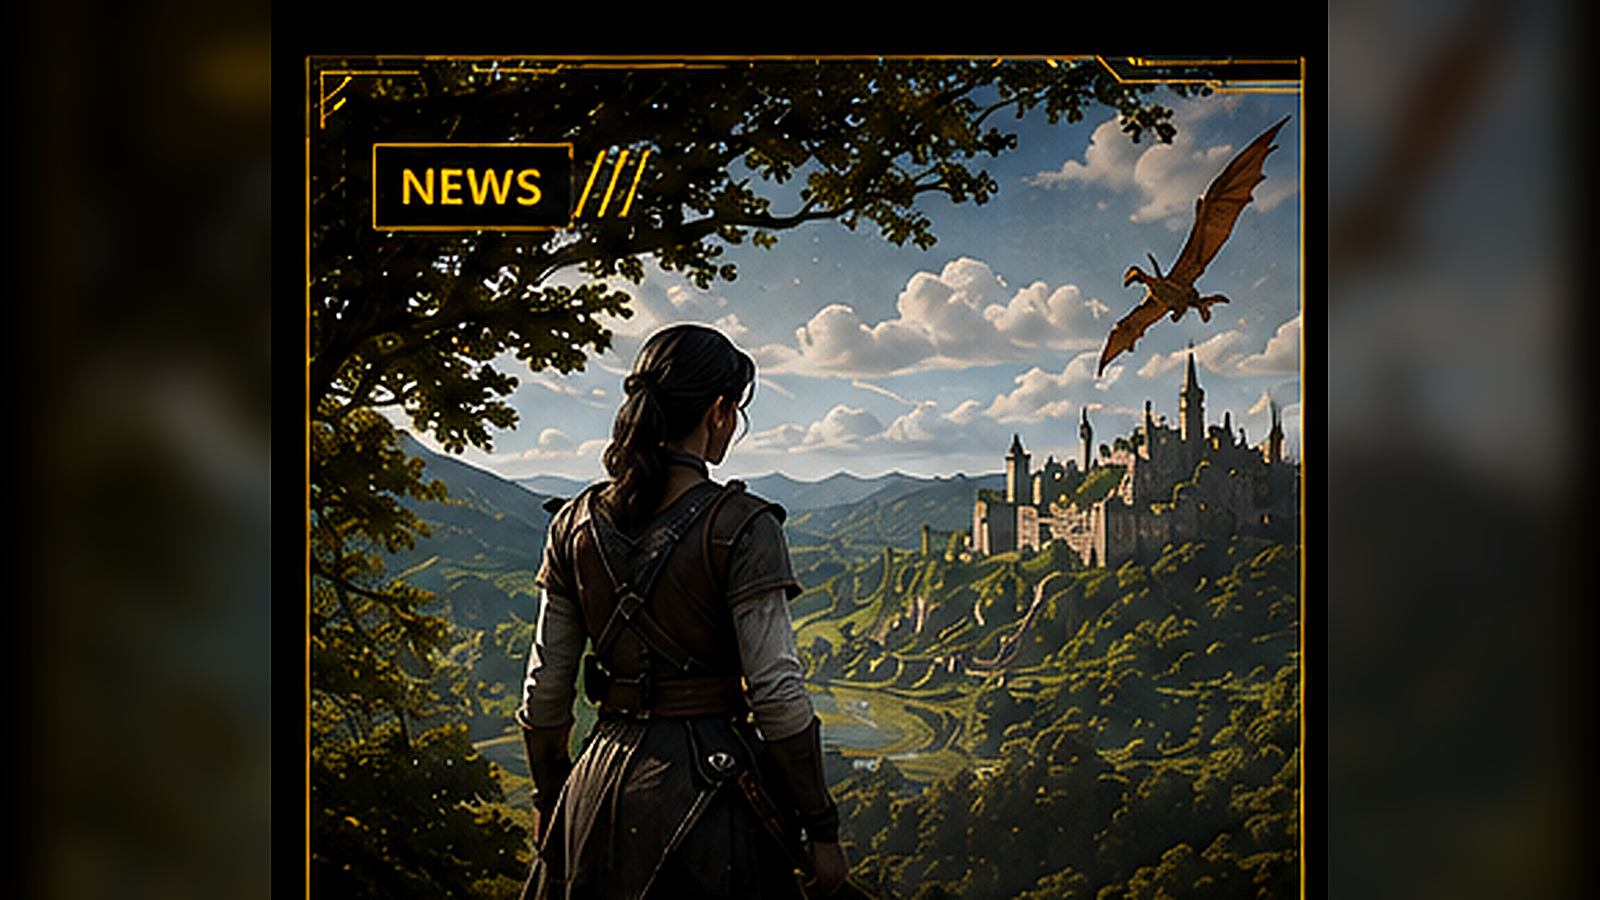
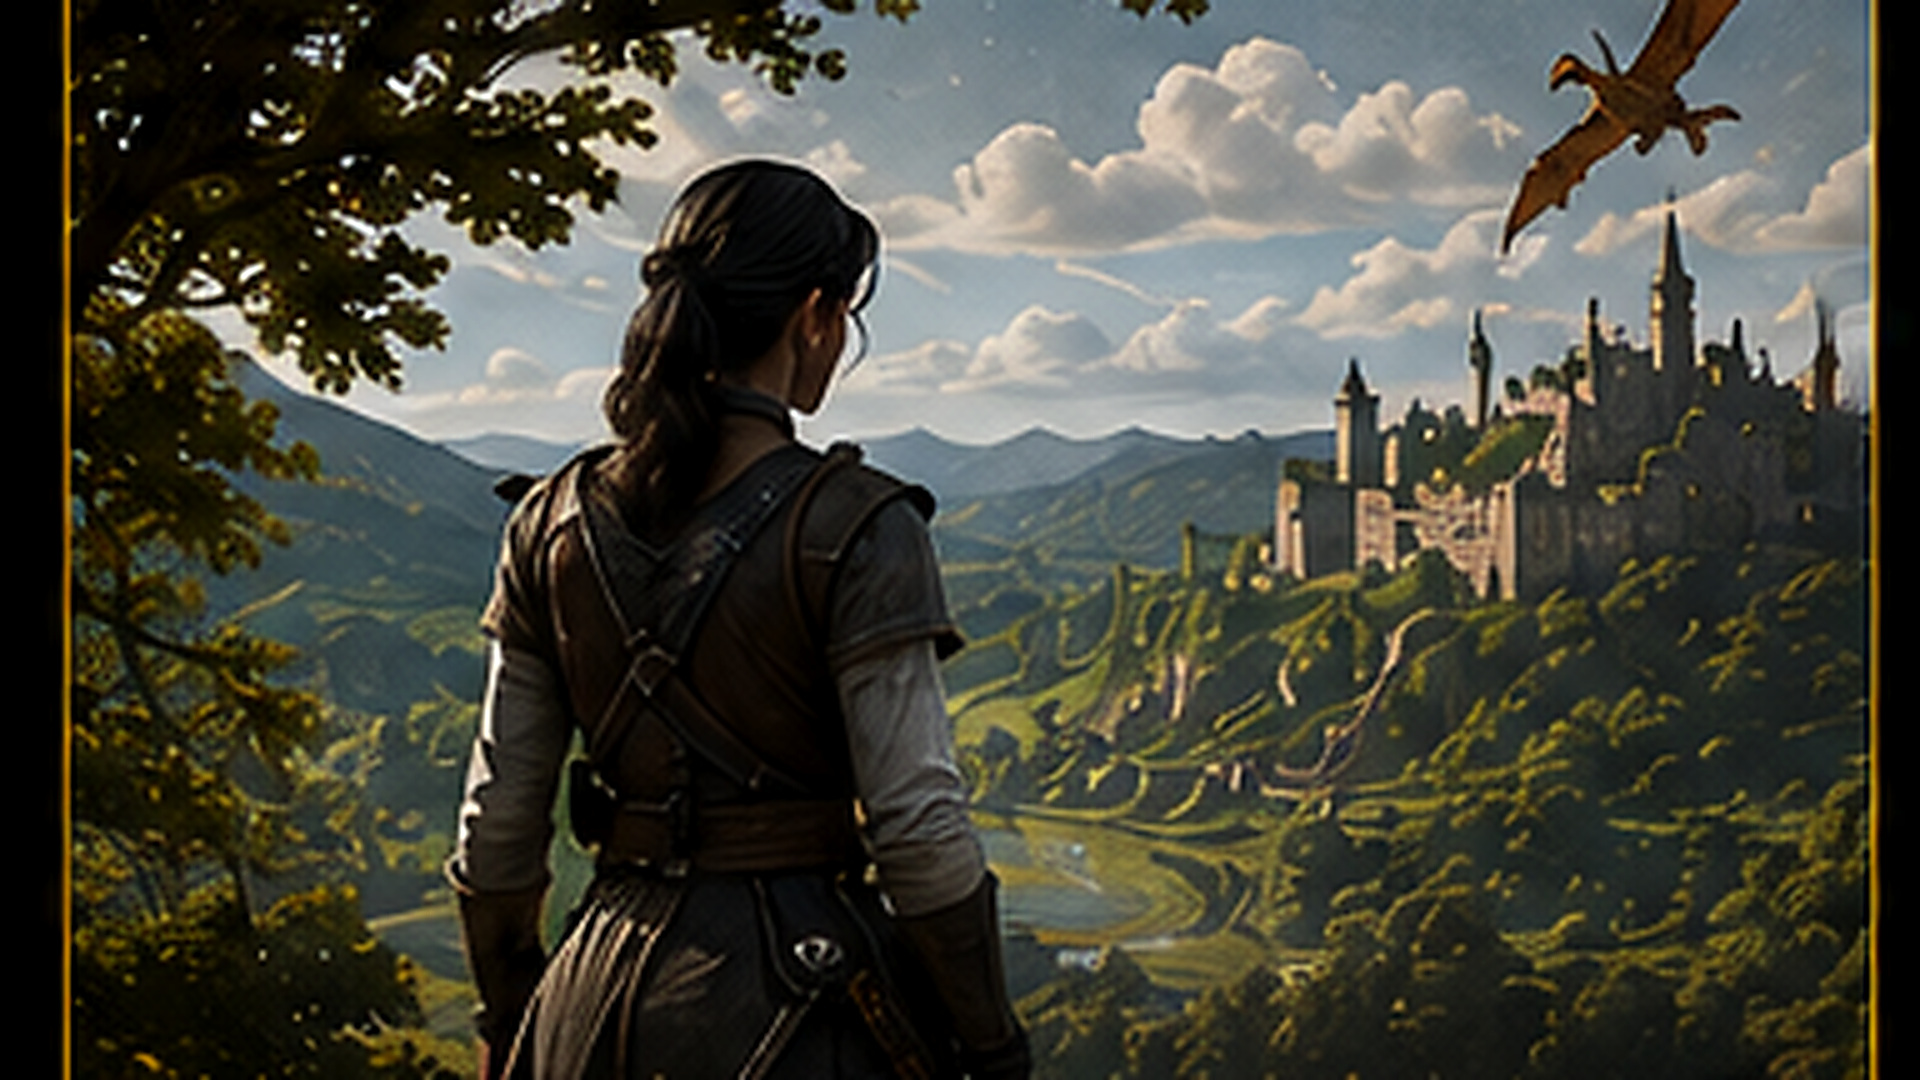
nzr-gg-site-v1.5

diff --git a/styles.css b/styles.css
@@ -789,3 +789,50 @@ body{overflow-x:hidden}
 @media(max-width:680px){
   .article-heading{padding-top:28px}.article-heading h1{font-size:38px;letter-spacing:-1.4px}.article-lead{font-size:16px}.article-cover-frame{aspect-ratio:4/3;margin-bottom:32px}.article-cover{object-position:center}.article-body{font-size:17px;line-height:1.72}.article-body blockquote{font-size:18px}.article-meta-row{align-items:flex-start;flex-direction:column;gap:10px}
 }
+
+/* ===== NZR.GG v1.5 — CLEAN COVERS + REAL THEME TOGGLE ===== */
+/* Story cards no longer duplicate category labels on top of the artwork. */
+.story-copy .kicker{display:none!important}
+.story-copy{bottom:18px}
+
+/* Clean 16:9 art is the single image source across cards and articles. */
+.story-art,.news-card .thumb,.media-card-image,.related-img{background-size:cover!important;background-position:center!important}
+.article-cover{object-position:center!important}
+
+/* Light theme: switch the whole surface system, not only the header. */
+:root[data-theme="light"] .status-strip,
+:root[data-theme="light"] .hero-main,
+:root[data-theme="light"] .stream-card,
+:root[data-theme="light"] .event-row,
+:root[data-theme="light"] .latest-list li,
+:root[data-theme="light"] .article-heading,
+:root[data-theme="light"] .article-layout,
+:root[data-theme="light"] .article-layout-v14,
+:root[data-theme="light"] .site-footer{color:#1b1b1b}
+:root[data-theme="light"] .hero-main{background:#f7f4ee}
+:root[data-theme="light"] .hero-overlay{background:linear-gradient(90deg,rgba(247,244,238,.04),rgba(247,244,238,.62) 52%,rgba(247,244,238,.96))}
+:root[data-theme="light"] .story-shade{background:linear-gradient(0deg,rgba(250,248,243,.94),rgba(250,248,243,.04) 72%)}
+:root[data-theme="light"] .story-copy h3{color:#171717;text-shadow:0 1px 0 rgba(255,255,255,.55)}
+:root[data-theme="light"] .hero-content h1{color:#171717}
+:root[data-theme="light"] .hero-content p{color:#514e49}
+:root[data-theme="light"] .eyebrow,:root[data-theme="light"] .hero-note,:root[data-theme="light"] .meta{color:#6a655e}
+:root[data-theme="light"] .status-strip{border-color:#d8c8aa;color:#77716a}
+:root[data-theme="light"] .status-strip b{color:#b27600}
+:root[data-theme="light"] .stream-card,:root[data-theme="light"] .event-row{border-color:#d4cec4;background:#faf8f3}
+:root[data-theme="light"] .latest-list li{border-color:#d4cec4}
+:root[data-theme="light"] .site-footer{border-color:#d4cec4}
+:root[data-theme="light"] .site-footer a{color:#4f4b45}
+:root[data-theme="light"] .brand-copy small,:root[data-theme="light"] .footer-brand small{color:#68635d}
+:root[data-theme="light"] .section-head h2,:root[data-theme="light"] .section-head a{color:#b27600}
+:root[data-theme="light"] .btn{color:#171717;background:rgba(242,160,0,.08)}
+:root[data-theme="light"] .btn:hover{background:var(--gold);color:#111}
+:root[data-theme="light"] .article-meta-row{border-color:#d3cec4}
+:root[data-theme="light"] .article-heading h1{color:#171717}
+:root[data-theme="light"] .article-breadcrumbs{color:#77716a}
+:root[data-theme="light"] .article-section{color:#b27600;border-color:#b27600}
+:root[data-theme="light"] .article-aside-v14 .aside-rule{background:#d6d0c5}
+:root[data-theme="light"] .tag-row span,:root[data-theme="light"] .article-tags span{background:#eee9df;color:#4c4944;border-color:#cfc7ba}
+
+/* Theme button has a visible selected state. */
+.theme-toggle{transition:background .18s ease,color .18s ease,border-color .18s ease}
+:root[data-theme="light"] .theme-toggle{background:#fff8e9!important;color:#a86d00!important;border-color:#c48a18!important}

diff --git a/index.html b/index.html
@@ -6,8 +6,8 @@
   <meta name="theme-color" content="#090909" />
   <title>NZR.GG — Play • Compete • Inspire</title>
   <meta name="description" content="NZR.GG — новости игр, киберспорт, обновления, индустрия и стримы." />
-  <script src="theme.js?v=140"></script>
-<link rel="stylesheet" href="styles.css?v=140" />
+  <script src="theme.js?v=150"></script>
+<link rel="stylesheet" href="styles.css?v=150" />
 </head>
 <body data-base="." data-boot="app.js">
   <div class="noise"></div>
@@ -61,7 +61,6 @@
           <div class="story-art story-art-esports"></div>
           <div class="story-shade"></div>
           <div class="story-copy">
-            <span class="kicker">ESPORTS</span>
             <h3>Киберспорт: матчи, турниры и трансферы</h3>
           </div>
         </a>
@@ -70,7 +69,6 @@
           <div class="story-art story-art-update"></div>
           <div class="story-shade"></div>
           <div class="story-copy">
-            <span class="kicker">UPDATES</span>
             <h3>Крупные патчи и новый контент</h3>
           </div>
         </a>
@@ -79,7 +77,6 @@
           <div class="story-art story-art-industry"></div>
           <div class="story-shade"></div>
           <div class="story-copy">
-            <span class="kicker">INDUSTRY</span>
             <h3>Студии, издатели и сделки индустрии</h3>
           </div>
         </a>
@@ -88,7 +85,6 @@
           <div class="story-art story-art-rpg"></div>
           <div class="story-shade"></div>
           <div class="story-copy">
-            <span class="kicker">NEWS</span>
             <h3>Самые интересные анонсы недели</h3>
           </div>
         </a>
@@ -217,6 +213,6 @@
     </div>
   </div>
 
-<script src="boot.js?v=140"></script>
+<script src="boot.js?v=150"></script>
 </body>
 </html>

diff --git a/article/index.html b/article/index.html
@@ -3,8 +3,8 @@
 <meta charset="utf-8"><meta name="viewport" content="width=device-width,initial-scale=1">
 <meta name="theme-color" content="#090909">
 <meta name="description" content="Материал NZR.GG">
-<script src="../theme.js?v=140"></script>
-<link rel="stylesheet" href="../styles.css?v=140">
+<script src="../theme.js?v=150"></script>
+<link rel="stylesheet" href="../styles.css?v=150">
 <title>Материал — NZR.GG</title>
 </head>
 <body data-base=".." data-active="" data-boot="site.js,article.js">
@@ -50,5 +50,5 @@
   </article>
 </main>
 <div data-site-footer></div>
-<script src="../boot.js?v=140"></script>
+<script src="../boot.js?v=150"></script>
 </body></html>

diff --git a/industry/index.html b/industry/index.html
@@ -2,8 +2,8 @@
 <html lang="ru"><head>
 <meta charset="utf-8"><meta name="viewport" content="width=device-width,initial-scale=1">
 <meta name="theme-color" content="#090909">
-<script src="../theme.js?v=140"></script>
-<link rel="stylesheet" href="../styles.css?v=140">
+<script src="../theme.js?v=150"></script>
+<link rel="stylesheet" href="../styles.css?v=150">
 <title>NZR.GG</title>
 </head>
 <body data-base=".." data-active="industry" data-boot="site.js,category.js">
@@ -23,5 +23,5 @@
   </section>
 </main>
 <div data-site-footer></div>
-<script src="../boot.js?v=140"></script>
+<script src="../boot.js?v=150"></script>
 </body></html>

diff --git a/esports/index.html b/esports/index.html
@@ -2,8 +2,8 @@
 <html lang="ru"><head>
 <meta charset="utf-8"><meta name="viewport" content="width=device-width,initial-scale=1">
 <meta name="theme-color" content="#090909">
-<script src="../theme.js?v=140"></script>
-<link rel="stylesheet" href="../styles.css?v=140">
+<script src="../theme.js?v=150"></script>
+<link rel="stylesheet" href="../styles.css?v=150">
 <title>NZR.GG</title>
 </head>
 <body data-base=".." data-active="esports" data-boot="site.js,category.js">
@@ -23,5 +23,5 @@
   </section>
 </main>
 <div data-site-footer></div>
-<script src="../boot.js?v=140"></script>
+<script src="../boot.js?v=150"></script>
 </body></html>

diff --git a/updates/index.html b/updates/index.html
@@ -2,8 +2,8 @@
 <html lang="ru"><head>
 <meta charset="utf-8"><meta name="viewport" content="width=device-width,initial-scale=1">
 <meta name="theme-color" content="#090909">
-<script src="../theme.js?v=140"></script>
-<link rel="stylesheet" href="../styles.css?v=140">
+<script src="../theme.js?v=150"></script>
+<link rel="stylesheet" href="../styles.css?v=150">
 <title>NZR.GG</title>
 </head>
 <body data-base=".." data-active="updates" data-boot="site.js,category.js">
@@ -23,5 +23,5 @@
   </section>
 </main>
 <div data-site-footer></div>
-<script src="../boot.js?v=140"></script>
+<script src="../boot.js?v=150"></script>
 </body></html>

diff --git a/news/index.html b/news/index.html
@@ -2,8 +2,8 @@
 <html lang="ru"><head>
 <meta charset="utf-8"><meta name="viewport" content="width=device-width,initial-scale=1">
 <meta name="theme-color" content="#090909">
-<script src="../theme.js?v=140"></script>
-<link rel="stylesheet" href="../styles.css?v=140">
+<script src="../theme.js?v=150"></script>
+<link rel="stylesheet" href="../styles.css?v=150">
 <title>NZR.GG</title>
 </head>
 <body data-base=".." data-active="news" data-boot="site.js,category.js">
@@ -23,5 +23,5 @@
   </section>
 </main>
 <div data-site-footer></div>
-<script src="../boot.js?v=140"></script>
+<script src="../boot.js?v=150"></script>
 </body></html>

diff --git a/admin/index.html b/admin/index.html
@@ -6,8 +6,8 @@
   <meta name="theme-color" content="#090909">
   <meta name="robots" content="noindex,nofollow">
   <title>NZR.GG Admin</title>
-  <script src="../theme.js?v=140"></script>
-<link rel="stylesheet" href="../styles.css?v=140">
+  <script src="../theme.js?v=150"></script>
+<link rel="stylesheet" href="../styles.css?v=150">
 </head>
 <body class="admin-page" data-base=".." data-boot="site.js,admin.js">
   <div data-site-header></div>
@@ -129,6 +129,6 @@
 
   <div data-site-footer></div>
 
-<script src="../boot.js?v=140"></script>
+<script src="../boot.js?v=150"></script>
 </body>
 </html>

diff --git a/boot.js b/boot.js
@@ -12,7 +12,7 @@
   function load(path, bustCache) {
     return new Promise((resolve, reject) => {
       const script = document.createElement("script");
-      script.src = src(path) + (bustCache ? `?fresh=${Date.now()}` : "?v=091");
+      script.src = src(path) + (bustCache ? `?fresh=${Date.now()}` : "?v=150");
       script.onload = resolve;
       script.onerror = () => reject(new Error(`Не удалось загрузить ${path}`));
       document.body.appendChild(script);

diff --git a/app.js b/app.js
@@ -1,5 +1,3 @@
-document.querySelectorAll('[data-theme-toggle]').forEach(btn=>btn.addEventListener('click',()=>window.NZR_THEME?.toggle()));
-window.NZR_THEME?.sync();
 const menuBtn = document.getElementById('menuBtn');
 const mainNav = document.getElementById('mainNav');
 const searchBtn = document.getElementById('searchBtn');

diff --git a/CHANGELOG-v1.5.md b/CHANGELOG-v1.5.md
@@ -1,0 +1,8 @@
+# NZR.GG v1.5
+
+- Fixed the theme toggle on the homepage: removed the duplicate click handler that immediately reverted the theme.
+- Expanded light theme styles across hero, cards, panels, article pages, footer and supporting UI.
+- Removed NEWS / ESPORTS / UPDATES / INDUSTRY labels from the four homepage story cards.
+- Rebuilt article cover assets as clean 16:9 artwork without the baked headline/category/footer portions of the old poster cards.
+- Standardized current article web covers to 1920×1080 JPEG and increased export quality.
+- Bumped front-end cache version to 1.5 (`v=150`).
